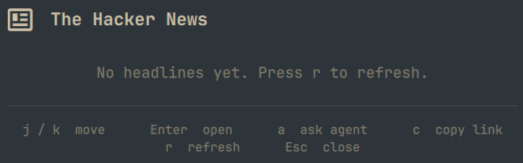
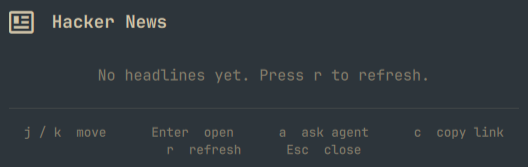
Rename repo to omarchy-hackernews and freshen preview

diff --git a/README.md b/README.md
@@ -49,7 +49,7 @@ polling, so the widget stays silent until you ask.
 connection. The fetch helper uses `curl` and `jq`.
 
 ```bash
-omarchy plugin add https://github.com/batusaribay/batusaribay.hackernews --enable
+omarchy plugin add https://github.com/batusaribay/omarchy-hackernews --enable
 ```
 
 To remove:
